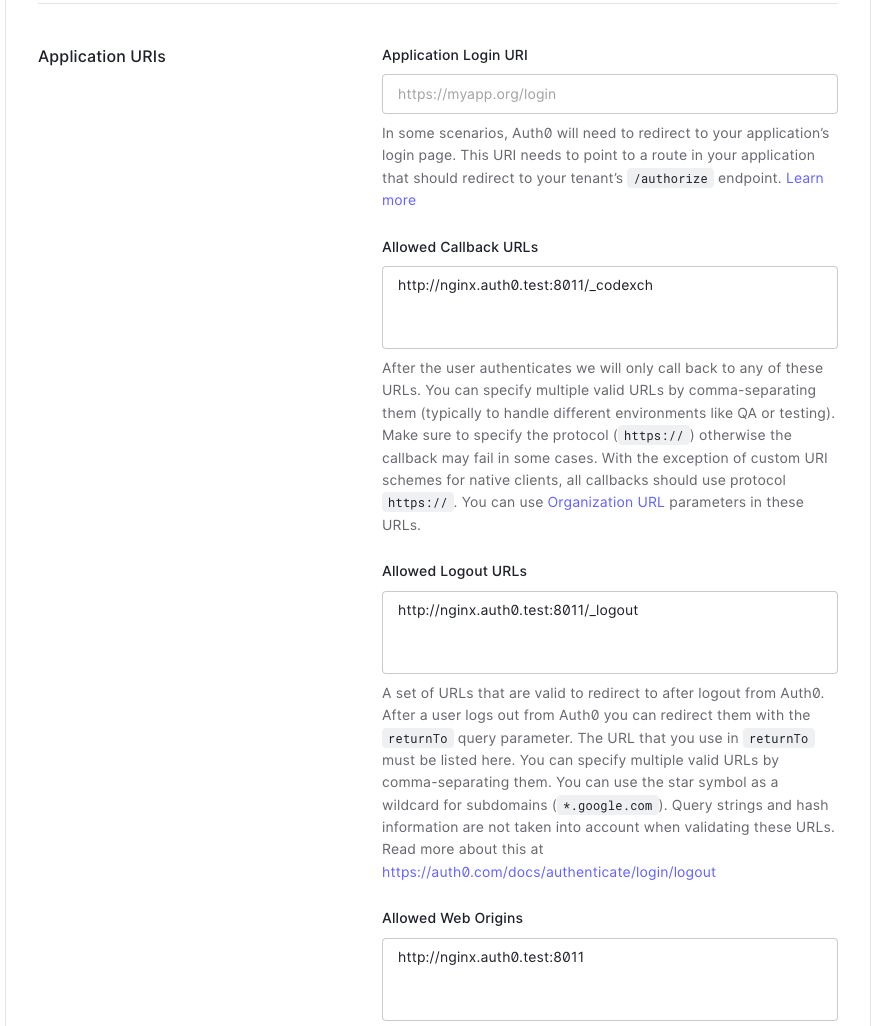
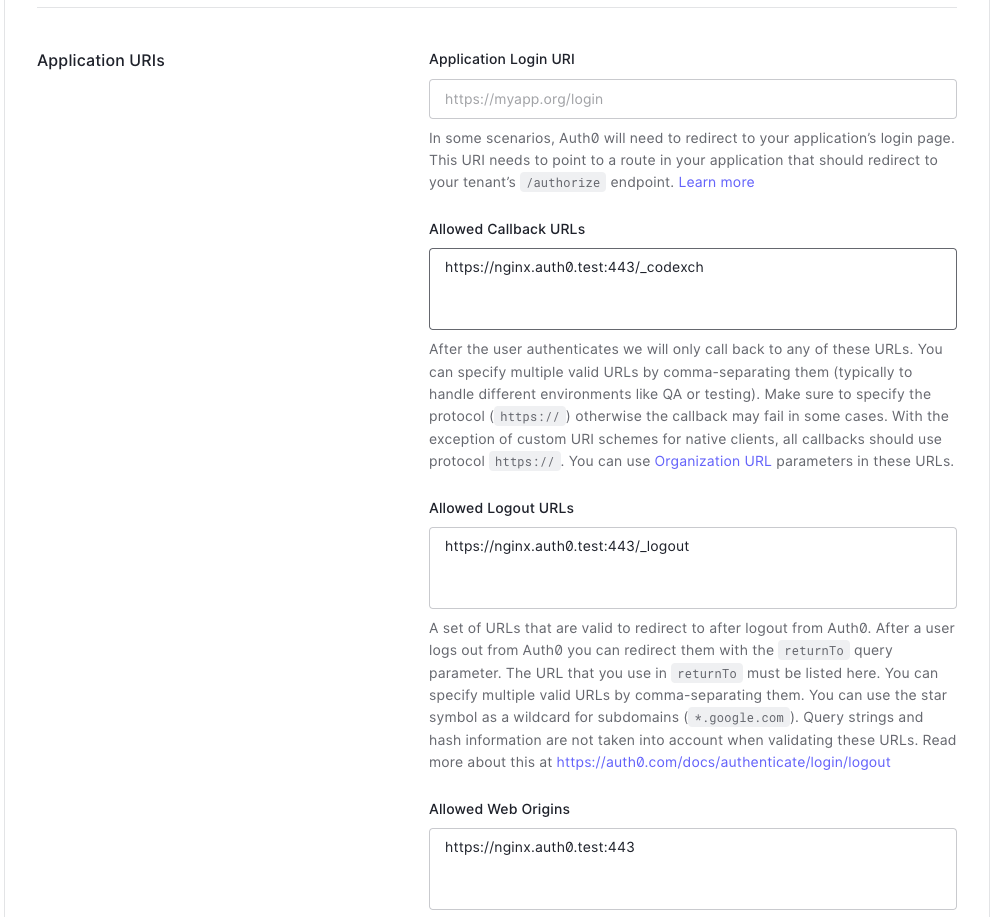
fix: docs and images

diff --git a/docs/01-Auth0-Setup.md b/docs/01-Auth0-Setup.md
@@ -40,9 +40,9 @@ In this section, you wll set up a web application that follows the [Auth0 Author
 
 5. In the **Application URIs** section, provide the URI of the NGINX Plus instance in the fields of **Allowed Callback URLs** and **Allowed Logout URLs**.
 
-   - **Allowed Callback URLs**: The URL must include the port number and end in **/\_codexch**. In our example, we used the URL `http://nginx.auth0.test:8011/\_codexch`.
+   - **Allowed Callback URLs**: The URL must include the port number and end in **/\_codexch**. In our example, we used the URL `http://nginx.auth0.test:443/_codexch`.
 
-   - **Allowed Logout URLs**: The URL must include the port number and end in **/\_codexch**. In our example, we used the URL `http://nginx.auth0.test:8011/\_logout`.
+   - **Allowed Logout URLs**: The URL must include the port number and end in **/\_codexch**. In our example, we used the URL `http://nginx.auth0.test:443/_logout`.
 
    > **Note:**
    >

diff --git a/docs/04-NGINX-DevPortal-Test.md b/docs/04-NGINX-DevPortal-Test.md
@@ -128,11 +128,11 @@ Configure a Dev Portal by either referencing **NGINX Management Suite Docs** of 
   >
   > `Response`:
   >
-  > ```json
+  > ```
   > {
   >     :
   >     curl -k https://<CTRL-FQDN>/install/nginx-agent > install.sh && sudo sh install.sh -g devp-group && sudo systemctl start nginx-agent
-  >
+  >     :
   > }
   > ```
 
@@ -225,7 +225,7 @@ Configure a Dev Portal by either referencing **NGINX Management Suite Docs** of 
   >
   > `Body`:
   >
-  > ```json
+  > ```
   > {
   >        :
   >   "authFlowType": "PKCE",

diff --git a/docs/03-Container-Test.md b/docs/03-Container-Test.md
@@ -37,7 +37,7 @@ Take the following steps to run NGINX Plus in a Docker container and test OIDC f
 
 ## 3. Run a Browser and Test OIDC
 
-- **Run** a Web Browser with `http://nginx.auth0.test:8011/`:
+- **Run** a Web Browser with `https://nginx.auth0.test`:
 
   ![](./img/run-browser.png)
 
